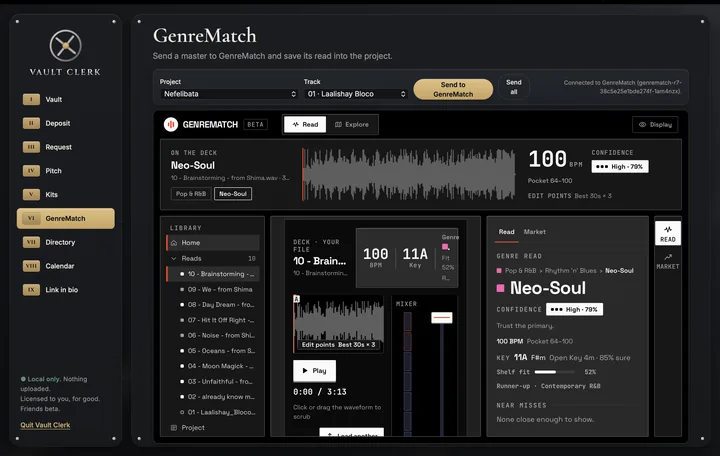
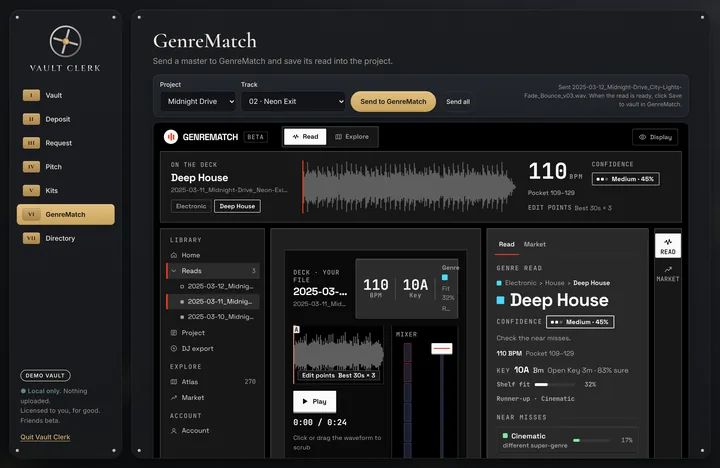
GenreMatch screenshots: demo vault tracks instead of real music
Claude-Session: https://claude.ai/code/session_01He9sFvfLuMRhts4kaVmQMe

diff --git a/index.html b/index.html
@@ -796,8 +796,8 @@ section.bare>.wrap{background:none!important;border:0!important;box-shadow:none!
     <div class="wrap">
       <div class="gm-grid">
         <div class="gm-media">
-          <a href="/screens/vc-genrematch-read-1440.webp" class="tzoom frame" data-group="gm" data-title="GenreMatch tab" data-sub="A read for one master, with its genre shelf and tempo." aria-label="Open the GenreMatch tab screenshot full size"><img src="/screens/vc-genrematch-read-720.webp" srcset="/screens/vc-genrematch-read-720.webp 720w, /screens/vc-genrematch-read-1440.webp 1440w" sizes="(max-width:760px) 92vw, (max-width:1100px) 60vw, 820px" width="1440" height="912" loading="lazy" decoding="async" alt="Vault Clerk's GenreMatch tab showing a finished read for a track, with its genre shelf, tempo and the reasons for it."></a>
-          <a href="/screens/vc-your-sound-1440.webp" class="tzoom frame gm-second" data-group="gm" data-title="Your sound" data-sub="Every saved read, listed with its project." aria-label="Open the Your sound screenshot full size"><img src="/screens/vc-your-sound-720.webp" srcset="/screens/vc-your-sound-720.webp 720w, /screens/vc-your-sound-1440.webp 1440w" sizes="(max-width:760px) 92vw, 520px" width="1440" height="912" loading="lazy" decoding="async" alt="Vault Clerk's Your sound list, showing each saved GenreMatch read with its genre and tempo."></a>
+          <a href="/screens/vc-genrematch-read-1440.webp" class="tzoom frame" data-group="gm" data-title="GenreMatch tab" data-sub="A read for a demo track, with its genre shelf and tempo." aria-label="Open the GenreMatch tab screenshot full size"><img src="/screens/vc-genrematch-read-720.webp" srcset="/screens/vc-genrematch-read-720.webp 720w, /screens/vc-genrematch-read-1440.webp 1440w" sizes="(max-width:760px) 92vw, (max-width:1100px) 60vw, 820px" width="1440" height="935" loading="lazy" decoding="async" alt="Vault Clerk's GenreMatch tab showing a finished read for a track, with its genre shelf, tempo and the reasons for it."></a>
+          <a href="/screens/vc-your-sound-1440.webp" class="tzoom frame gm-second" data-group="gm" data-title="Your sound" data-sub="Every saved read, listed with its project." aria-label="Open the Your sound screenshot full size"><img src="/screens/vc-your-sound-720.webp" srcset="/screens/vc-your-sound-720.webp 720w, /screens/vc-your-sound-1440.webp 1440w" sizes="(max-width:760px) 92vw, 520px" width="1440" height="590" loading="lazy" decoding="async" alt="Vault Clerk's Your sound list, showing each saved GenreMatch read with its genre and tempo."></a>
         </div>
         <div class="gm-text">
           <p class="eyebrow">GENREMATCH</p>
